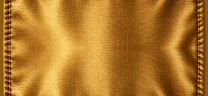
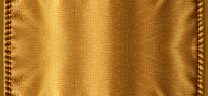
Fabric ribbon: seamless texture across heights — shared fold profile for top/mid/bottom slices, tileable weave, lossless slices

diff --git a/scripts/generate-ribbon-fabric.js b/scripts/generate-ribbon-fabric.js
@@ -8,13 +8,23 @@
    the browser or in CI.
 
      top     sewn upper hem + seam           anchored to the ribbon's top edge
-     mid     plain weave, mirrored so it     repeat-y between the two ends
-             tiles vertically with no seam
+     mid     plain weave, tileable           repeat-y between the two ends
      bottom  lower hem and swallow-tail      anchored to the ribbon's bottom edge
 
-   Output is 2x the 104px ribbon width. The bottom slice is squashed vertically
-   once, here, so the artwork's tail depth matches the CSS ribbon's 11px notch
-   (--rb-notch); no slice is ever stretched at runtime. Run: node scripts/generate-ribbon-fabric.js
+   Continuity. The ribbon's height changes at runtime, so the weave tile meets the
+   bottom hem at an arbitrary phase and, when it repeats, meets itself. Folds are
+   lighting (low frequency), not grain, so the three slices share ONE fold profile:
+     - profile(x) = column mean of the blurred weave: the ribbon's fold structure,
+       constant down its length, so a tile or slice boundary can never cut a fold;
+     - mid    = profile + the real weave grain (mirrored once: grain has no visible
+                symmetry, folds - which did - are no longer in the tile);
+     - top / bottom keep their real pixels (stitching, hem, grain) but their low
+       frequencies are eased onto the profile where they meet the weave (bottom:
+       only above the hem's inner stitch line, found from the alpha channel).
+   Slices are written lossless. Output is 2x the 104px ribbon width. The bottom
+   slice is squashed vertically once, here, so the artwork's tail depth matches
+   the CSS ribbon's 11px notch (--rb-notch); no slice is ever stretched at
+   runtime. Run: node scripts/generate-ribbon-fabric.js
    ============================================================ */
 'use strict';
 const path = require('path');
@@ -28,43 +38,140 @@ const OUT_W = 208;                       // 2 x --rb-w (104px)
 const BOX = { left: 258, top: 148, width: 1203, height: 663 }; // opaque bounds of the artwork
 const TOP_H = 117, MID_H = 280;          // source rows: top slice, then the tileable middle
 const NOTCH_SRC = 172, NOTCH_OUT = 22;   // artwork tail depth -> 2 x 11px CSS notch
-const FEATHER = 5;                       // output px of alpha ramp where a slice meets the weave
-const WEBP = { quality: 90, alphaQuality: 100, effort: 6 };
+const FEATHER = 4;                       // output px of alpha ramp where a slice meets the weave
+const SIGMA = 4;                         // output px: what counts as "fold" (low) vs "grain" (detail)
+const TOP_BLEND_FROM = 8;                // top slice row where easing onto the profile starts
+const HEM_SRC = 55;                      // source px between the silhouette edge and the hem's inner stitch line
+const BOTTOM_BLEND_MAX = 14;             // longest ease down from the bottom slice's top edge, output rows
+const WEBP = { lossless: true, effort: 6 };
+const clamp8 = (v) => (v < 0 ? 0 : v > 255 ? 255 : Math.round(v));
+const smooth = (t) => { t = Math.max(0, Math.min(1, t)); return t * t * (3 - 2 * t); };
 
-async function fadeEdge(buf, w, h, edge) {
-  // Soften one horizontal edge of an RGBA slice so it blends into the weave behind it.
-  const ramp = Buffer.alloc(w * h);
-  for (let y = 0; y < h; y++) {
-    const d = edge === 'bottom' ? h - 1 - y : y;
-    ramp.fill(Math.round(255 * Math.min(1, d / FEATHER)), y * w, (y + 1) * w);
+// Alpha-weighted separable gaussian over an RGBA raw buffer -> Float32 RGB (transparent pixels never leak in).
+function blurRgb(raw, w, h, sigma) {
+  const r = Math.ceil(sigma * 3), k = [];
+  let ks = 0;
+  for (let i = -r; i <= r; i++) { const v = Math.exp(-(i * i) / (2 * sigma * sigma)); k.push(v); ks += v; }
+  const n = w * h;
+  let cur = new Float32Array(n * 4);
+  for (let i = 0; i < n; i++) {
+    const a = raw[i * 4 + 3] / 255;
+    for (let c = 0; c < 3; c++) cur[i * 4 + c] = raw[i * 4 + c] * a;
+    cur[i * 4 + 3] = a;
   }
-  return sharp(buf).ensureAlpha()
-    .composite([{ input: ramp, raw: { width: w, height: h, channels: 1 }, blend: 'dest-in' }])
-    .png().toBuffer();
+  for (const horizontal of [true, false]) {
+    const nxt = new Float32Array(n * 4);
+    for (let y = 0; y < h; y++) for (let x = 0; x < w; x++) {
+      const acc = [0, 0, 0, 0];
+      for (let i = -r; i <= r; i++) {
+        const xx = horizontal ? Math.min(w - 1, Math.max(0, x + i)) : x;
+        const yy = horizontal ? y : Math.min(h - 1, Math.max(0, y + i));
+        const o = (yy * w + xx) * 4, kv = k[i + r] / ks;
+        for (let c = 0; c < 4; c++) acc[c] += cur[o + c] * kv;
+      }
+      for (let c = 0; c < 4; c++) nxt[(y * w + x) * 4 + c] = acc[c];
+    }
+    cur = nxt;
+  }
+  const out = new Float32Array(n * 3);
+  for (let i = 0; i < n; i++) {
+    const a = cur[i * 4 + 3] || 1e-6;
+    for (let c = 0; c < 3; c++) out[i * 3 + c] = cur[i * 4 + c] / a;
+  }
+  return out;
 }
+
+// Linear row resample of a w-wide, 3-channel float image from h0 rows to h1 rows.
+function resampleRows(img, w, h0, h1) {
+  const out = new Float32Array(w * h1 * 3);
+  for (let y = 0; y < h1; y++) {
+    const p = Math.max(0, Math.min(h0 - 1, ((y + 0.5) * h0) / h1 - 0.5));
+    const y0 = Math.floor(p), y1 = Math.min(h0 - 1, y0 + 1), f = p - y0;
+    for (let i = 0; i < w * 3; i++) out[y * w * 3 + i] = img[y0 * w * 3 + i] * (1 - f) + img[y1 * w * 3 + i] * f;
+  }
+  return out;
+}
+
+async function rawOf(sharpImg) {
+  const { data } = await sharpImg.ensureAlpha().raw().toBuffer({ resolveWithObject: true });
+  return data;
+}
+
+function fadeEdge(raw, w, h, edge) {
+  // Soften one horizontal edge's alpha so the slice blends into the weave beside it.
+  for (let y = 0; y < h; y++) {
+    const d = edge === 'bottom' ? h - 1 - y : y, f = Math.min(1, d / FEATHER);
+    for (let x = 0; x < w; x++) raw[(y * w + x) * 4 + 3] = Math.round(raw[(y * w + x) * 4 + 3] * f);
+  }
+}
+
+const save = (raw, w, h, file) => sharp(raw, { raw: { width: w, height: h, channels: 4 } }).webp(WEBP).toFile(path.join(OUT, file));
 
 (async () => {
   const base = sharp(await sharp(SRC).extract(BOX).png().toBuffer());
   const scale = OUT_W / BOX.width;
+  const baseH = Math.round(BOX.height * scale);
   const slice = (top, height, outH) => base.clone().extract({ left: 0, top, width: BOX.width, height })
     .resize(OUT_W, outH, { fit: 'fill', kernel: 'lanczos3' });
 
   const topH = Math.round(TOP_H * scale);
-  const topBuf = await slice(0, TOP_H, topH).png().toBuffer();
-  await sharp(await fadeEdge(topBuf, OUT_W, topH, 'bottom')).webp(WEBP).toFile(path.join(OUT, 'catalog-top.webp'));
-
   const midH = Math.round(MID_H * scale);
-  const mid = await slice(TOP_H, MID_H, midH).flatten({ background: '#8a5c14' }).png().toBuffer();
-  const flipped = await sharp(mid).flip().png().toBuffer();
-  await sharp({ create: { width: OUT_W, height: midH * 2, channels: 3, background: '#000' } })
-    .composite([{ input: mid, top: 0, left: 0 }, { input: flipped, top: midH, left: 0 }])
-    .webp({ quality: 90, effort: 6 }).toFile(path.join(OUT, 'catalog-mid.webp'));
-
   const botSrcH = BOX.height - TOP_H - MID_H;
   const k = NOTCH_OUT / (NOTCH_SRC * scale);
   const botH = Math.round(botSrcH * scale * k);
-  const botBuf = await slice(TOP_H + MID_H, botSrcH, botH).png().toBuffer();
-  await sharp(await fadeEdge(botBuf, OUT_W, botH, 'top')).webp(WEBP).toFile(path.join(OUT, 'catalog-bottom.webp'));
+
+  // Fold (low-frequency) layer of the whole artwork at output size, and its per-column profile over the weave.
+  const full = await rawOf(base.clone().resize(OUT_W, baseH, { fit: 'fill', kernel: 'lanczos3' }));
+  const low = blurRgb(full, OUT_W, baseH, SIGMA);
+  const profile = new Float32Array(OUT_W * 3);
+  for (let x = 0; x < OUT_W; x++) for (let c = 0; c < 3; c++) {
+    let s = 0;
+    for (let y = topH; y < topH + midH; y++) s += low[(y * OUT_W + x) * 3 + c];
+    profile[x * 3 + c] = s / midH;
+  }
+  const sliceLow = (y0, rows) => low.slice(y0 * OUT_W * 3, (y0 + rows) * OUT_W * 3);
+
+  // top: real pixels, folds eased onto the profile toward the weave
+  const top = await rawOf(slice(0, TOP_H, topH));
+  const topLow = sliceLow(0, topH);
+  for (let y = 0; y < topH; y++) {
+    const wt = smooth((y - TOP_BLEND_FROM) / (topH - 1 - TOP_BLEND_FROM));
+    for (let x = 0; x < OUT_W; x++) for (let c = 0; c < 3; c++) {
+      const o = (y * OUT_W + x) * 4 + c;
+      top[o] = clamp8(top[o] + wt * (profile[x * 3 + c] - topLow[(y * OUT_W + x) * 3 + c]));
+    }
+  }
+  fadeEdge(top, OUT_W, topH, 'bottom');
+  await save(top, OUT_W, topH, 'catalog-top.webp');
+
+  // mid: profile + the real grain, mirrored once so the tile closes on itself
+  const mid = await rawOf(slice(TOP_H, MID_H, midH).flatten({ background: '#8a5c14' }));
+  const midLow = sliceLow(topH, midH);
+  const tile = Buffer.alloc(OUT_W * midH * 2 * 4, 255);
+  for (let y = 0; y < midH; y++) for (let x = 0; x < OUT_W; x++) for (let c = 0; c < 3; c++) {
+    const v = clamp8(profile[x * 3 + c] + (mid[(y * OUT_W + x) * 4 + c] - midLow[(y * OUT_W + x) * 3 + c]));
+    tile[(y * OUT_W + x) * 4 + c] = v;
+    tile[((2 * midH - 1 - y) * OUT_W + x) * 4 + c] = v;
+  }
+  await save(tile, OUT_W, midH * 2, 'catalog-mid.webp');
+
+  // bottom: real pixels; folds eased onto the profile only above the hem's inner stitch line
+  const bot = await rawOf(slice(TOP_H + MID_H, botSrcH, botH));
+  const botLowRows = baseH - topH - midH;
+  const botLow = resampleRows(sliceLow(topH + midH, botLowRows), OUT_W, botLowRows, botH);
+  for (let x = 0; x < OUT_W; x++) {
+    let edge = botH;                                        // first opaque row from the bottom = silhouette edge
+    while (edge > 0 && bot[((edge - 1) * OUT_W + x) * 4 + 3] < 128) edge--;
+    const len = Math.max(2, Math.min(BOTTOM_BLEND_MAX, edge - HEM_SRC * scale * k));
+    for (let y = 0; y < Math.ceil(len); y++) {
+      const wb = 1 - smooth(y / len);
+      for (let c = 0; c < 3; c++) {
+        const o = (y * OUT_W + x) * 4 + c;
+        bot[o] = clamp8(bot[o] + wb * (profile[x * 3 + c] - botLow[(y * OUT_W + x) * 3 + c]));
+      }
+    }
+  }
+  fadeEdge(bot, OUT_W, botH, 'top');
+  await save(bot, OUT_W, botH, 'catalog-bottom.webp');
   console.log({ topH, midTile: midH * 2, botH, verticalSquashOfTail: +k.toFixed(3) });
 })();
-

diff --git a/css/styles.css b/css/styles.css
@@ -407,8 +407,9 @@ a:hover { text-decoration: underline; text-underline-offset: 2px; }
  * sway/drop keyframes, transform origin, drop-shadow, clip-path swallow-tail, label and dim overlay are all the
  * originals, so the texture moves and grows as part of the same element. Three slices (made by
  * scripts/generate-ribbon-fabric.js): the sewn hem is pinned to the top, the swallow-tail hem to the bottom, and a
- * mirrored weave tile repeats between them, so the length changes by revealing more weave, never by scaling the
- * photograph. Slice heights at 1x: top 10px, tile 48px. Another colour = another set of three images. */
+ * weave tile repeats between them, so the length changes by revealing more weave, never by scaling the photograph.
+ * The slices share one fold profile (see the script header), so no tile or slice boundary can cut a fold at any
+ * height. Slice heights at 1x: top 10px, tile 48px. Another colour = another set of three images. */
 :root[data-ribbon-skin="fabric"] .ribbon[data-ribbon="catalog"] .ribbon-fab {
   background:
     url("../img/ui/ribbon-fabric/catalog-top.webp") 0 0 / 100% auto no-repeat,
